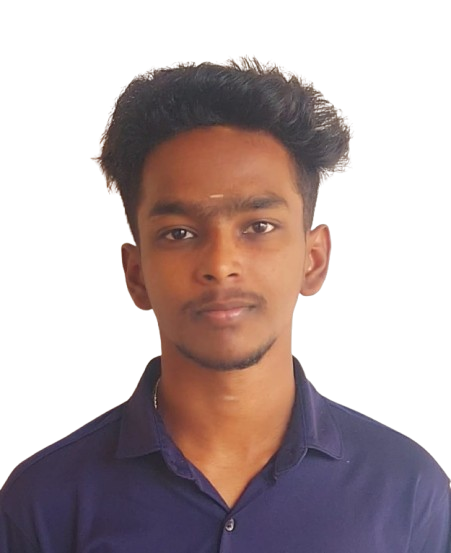
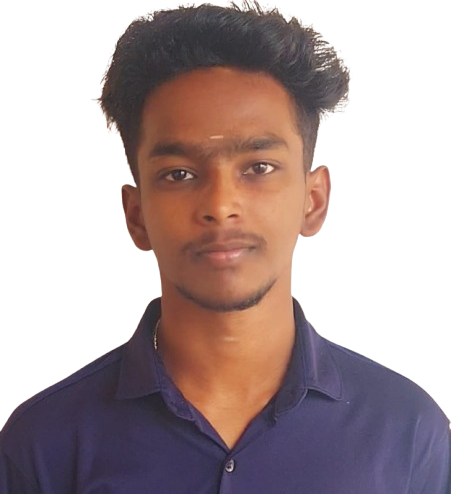
About changes updated

Changed region(s): [[0.0, 0.0, 0.9623, 0.9717], [0.9933, 0.8502, 1.0, 0.9109], [0.9623, 0.8198, 0.9933, 0.8502]]

diff --git a/Portfolio.css b/Portfolio.css
@@ -26,6 +26,10 @@ ul {
     justify-content: space-between;
     padding: 15px 25px;
     align-items: center;
+
+    background-color: rgba(255, 255, 255, 0.4);
+    backdrop-filter: blur(45px);
+    box-shadow: 0 4px 14px #b2b0ff40
 }
 
 .list1 .Name {
@@ -51,7 +55,7 @@ ul {
 }
 
 .button button {
-    background-color: black;
+    background-color: #424242;
     color: white;
     cursor: pointer;
     border-radius: 8px;
@@ -90,30 +94,49 @@ ul {
     display: flex;
     flex-direction: row;
     padding: 50px;
+    justify-content: center;
+    justify-content: space-evenly;
 }
 .sec1-cont1{
+    padding: 30px;
     width: 50%;
+    align-content: end;
+}
+.sec1-cont2{
+    padding: 20px;
+    width: 30%;
 }
 .sec1-cards ul{
     display: flex;
     flex-direction: row;
     justify-content: flex-start;
+    padding-left: 30px;
 }
 .sec1-card{
-    margin-left: 10px;
+    margin-right: 20px;
     width: 60px;
 }
 .sec1-Para {
     opacity: 0.5;
+    padding-bottom: 30px;
+    font-size: 25px;
+    padding-left: 30px;
 }
 .sec1-Hd {
     padding-top: 20px;
-    padding-bottom: 50px;
+    padding-bottom: 30px;
     padding-left: 50px;
+}
+.sec1-Hd h1{
+    font-size: 40px;
 }
 .sec1-Hd  span{
     color: brown;
     font-family: "Londrina Outline", sans-serif;
     font-weight: 400;
     font-style: normal;
+    font-size: 50px;
+}
+.sec1-img,.sec1-img img{
+    width: 100%;
 }

diff --git a/index.html b/index.html
@@ -41,8 +41,7 @@
                     <h1><span>Hello!</span> I'm Barath.<br><span>Front-end Devloper.</span> </h1>
                 </div>
                 <div class="sec1-Para">Aspiring Software Engineer with a foundation in Electronics and Communication Engineering. Skilled in HTML,
-                    CSS, and JavaScript, with strong problem-solving abilities. Passionate about contributing to innovative
-                    software solutions and eager to grow in a dynamic and collaborative environment.</div>
+                    CSS, and JavaScript, with strong problem-solving abilities.</div>
                 <div class="sec1-cardSet">
                     <div class="sec1-cards">
                         <ul>
@@ -55,7 +54,7 @@
             </div>
             <div class="sec1-cont2">
                 <div class="sec1-img">
-                    <img src="Asset/Barath Image.png" alt="">
+                    <img src="Asset/rb_923.png" alt="">
                 </div>
             </div>
         </div>
